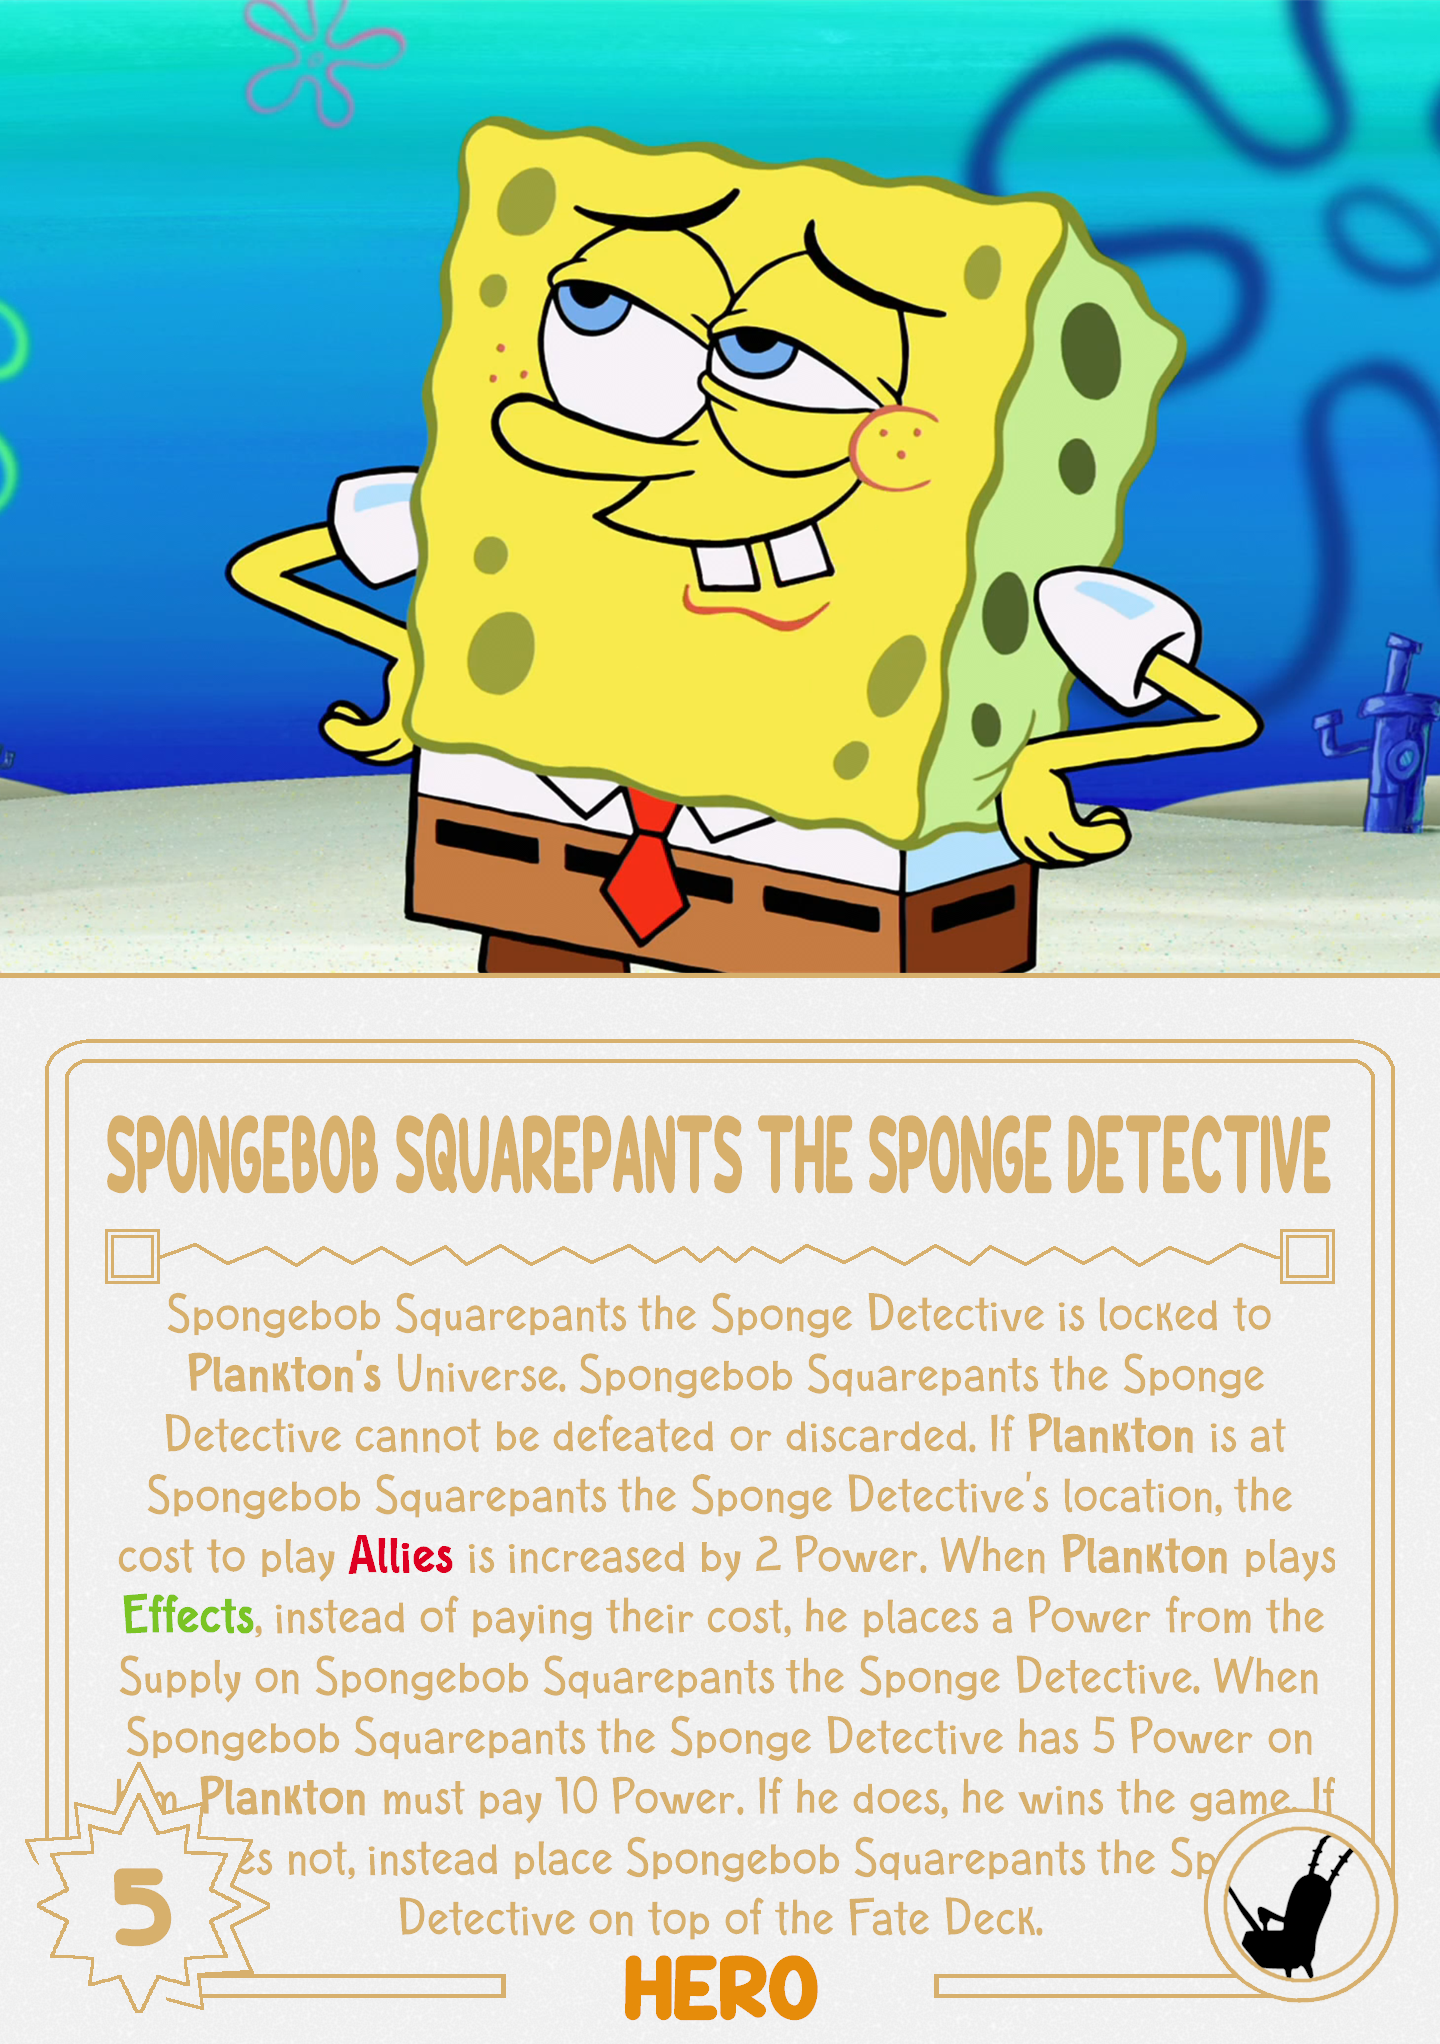
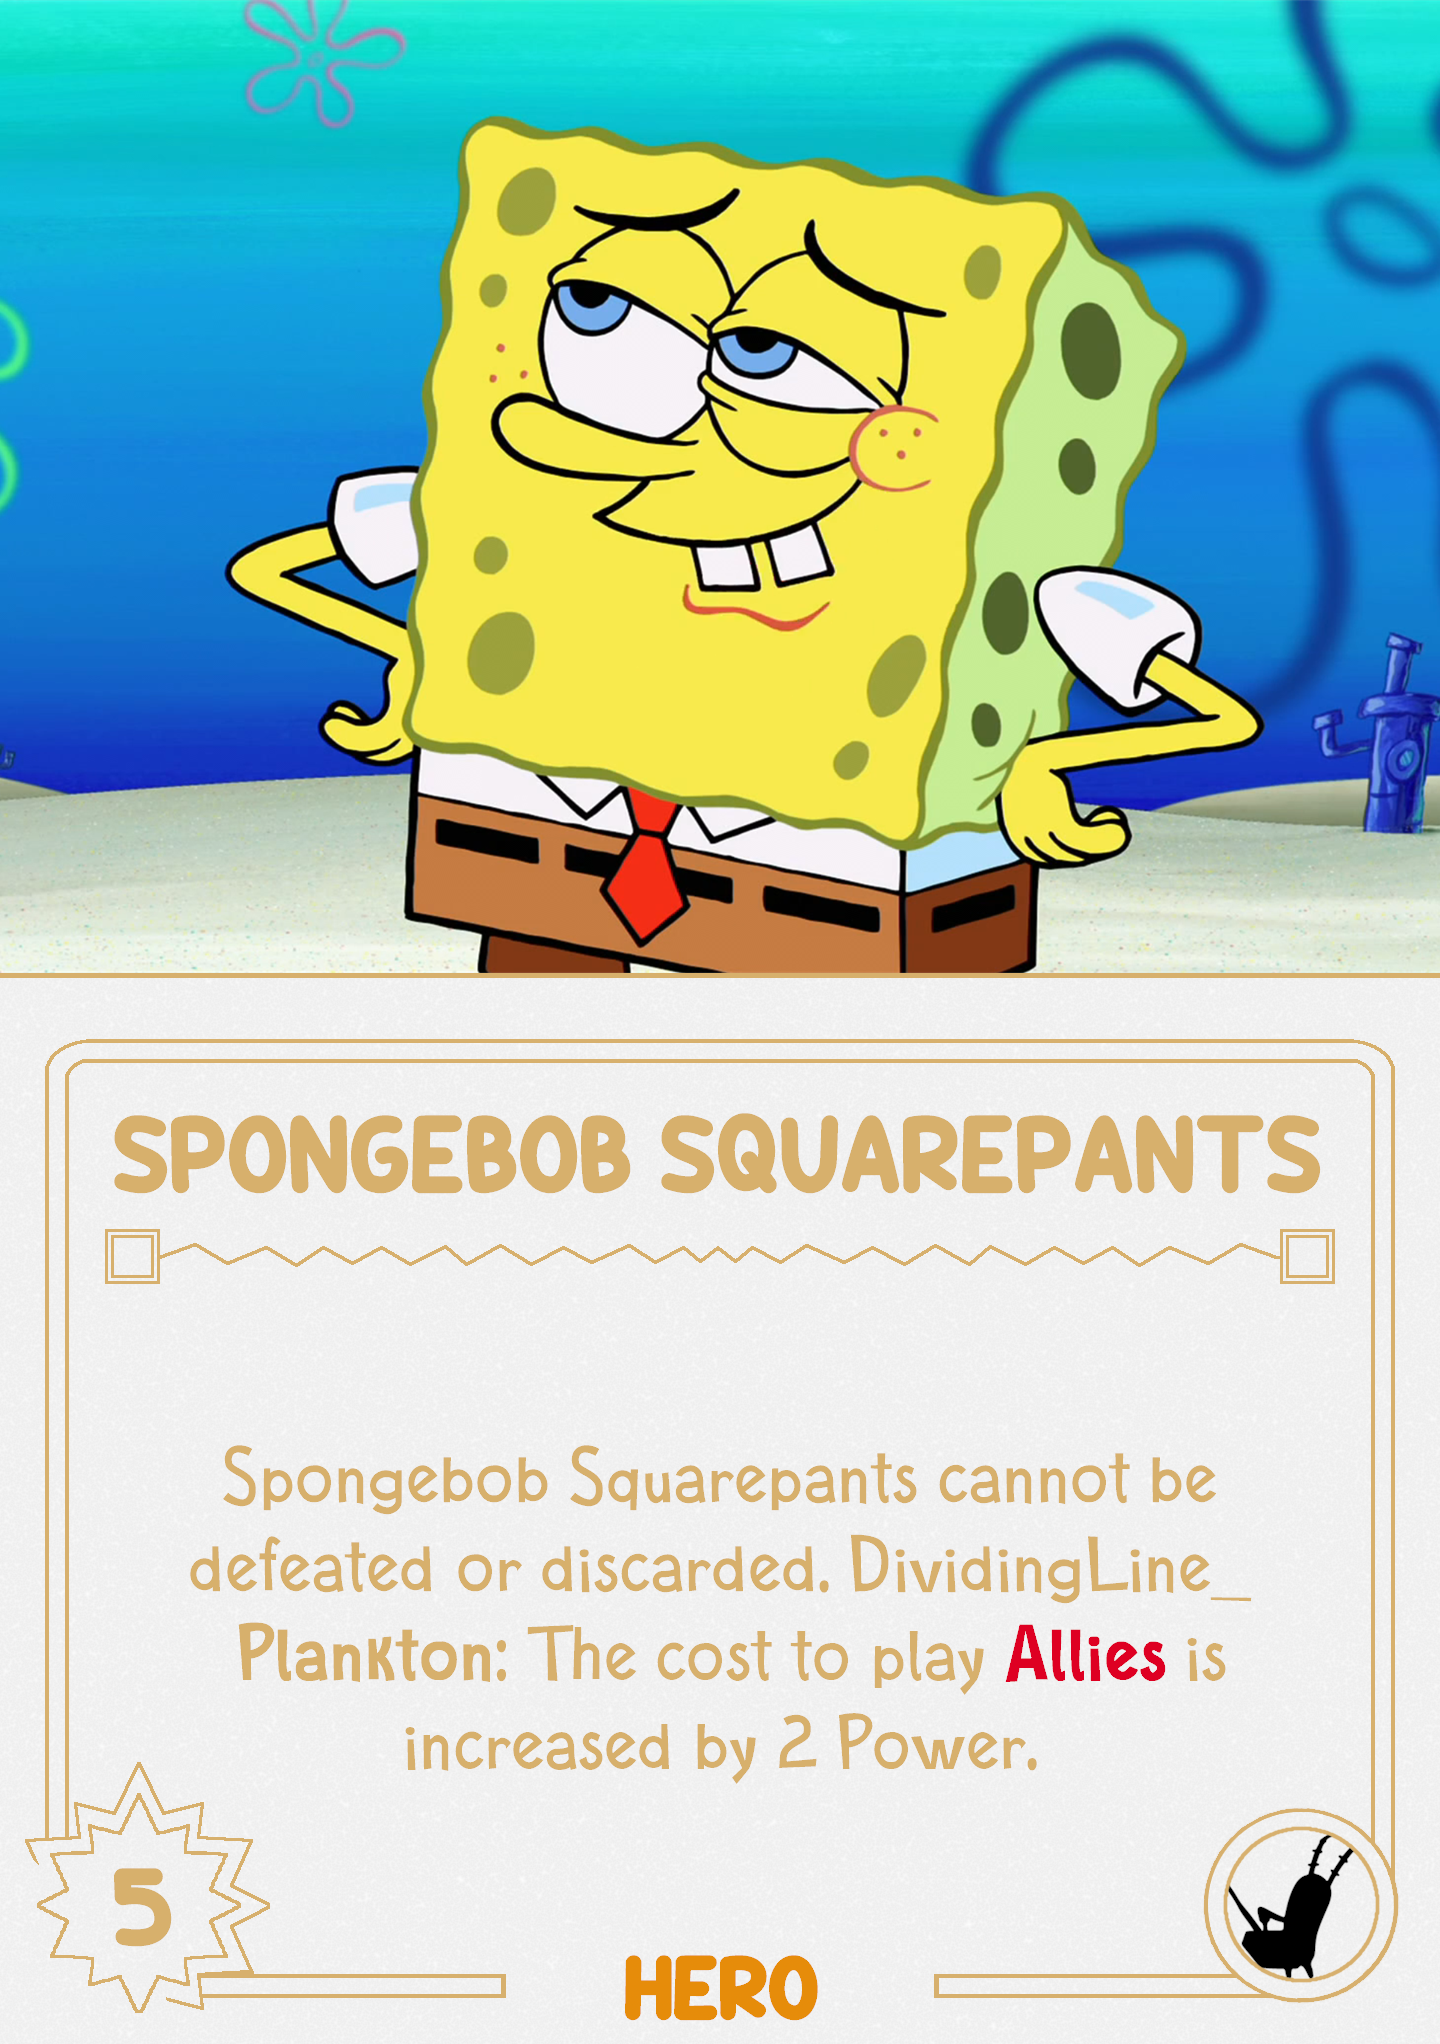
Removed some debugging. Added code to prevent incomplete cards from being generated.

Changed region(s): [[0.0625, 0.6164, 0.9375, 0.9555], [0.0625, 0.524, 0.9375, 0.5856]]

diff --git a/CardGeneration/PrepareText.cs b/CardGeneration/PrepareText.cs
@@ -66,7 +66,6 @@ namespace ToonVil_Card_Generator.CardGeneration
 						font = new Font(font.Name, currentFontSize, font.Style);
 					}
 				} while (textHeight > maxHeight);
-				Console.WriteLine($"Font size: {currentFontSize}");
 			}
 			else
 			{
@@ -161,93 +160,6 @@ namespace ToonVil_Card_Generator.CardGeneration
 				}
 				line++;
 			}
-
-			drawing.Save();
-
-			textBrush.Dispose();
-			drawing.Dispose();
-
-			// Ensure output directory exists and save per-element PNG
-			var relativeOutDir = Path.Combine("temp", "TextIntermediary");
-            var outDir = PathHelper.GetFullPath(relativeOutDir);
-			Directory.CreateDirectory(outDir);
-			var outpath = Path.Combine(outDir, $"{element}.png");
-			img.Save(outpath, ImageFormat.Png);
-			img.Dispose();
-		}
-
-		// summary
-		public static void DrawTextTest(String text, Font font, Color textColor, int maxWidth, int maxHeight, string element, Dictionary<string, string> keywordsAndColors)
-		{
-			// First, if it is a Title, capitalize the text
-			if (string.Equals(element.ToLower(), "title") || string.Equals(element.ToLower(), "type"))
-			{
-				text = text.ToUpper();
-			}
-
-			// Clean the text
-			text = GetCleanText(text);
-
-			// Set the stringformat flags and trimming
-			StringFormat sf = StringFormat.GenericTypographic;
-			sf.Trimming = StringTrimming.Word;
-			sf.Alignment = StringAlignment.Center;
-			sf.LineAlignment = StringAlignment.Center;
-
-			// Create a new image of the right size for our graphics
-			Image img = new Bitmap(maxWidth, maxHeight);
-			Graphics drawing = Graphics.FromImage(img);
-
-			// Use high quality everything
-			drawing.CompositingQuality = CompositingQuality.HighQuality;
-			drawing.InterpolationMode = InterpolationMode.HighQualityBilinear;
-			drawing.PixelOffsetMode = PixelOffsetMode.HighQuality;
-			drawing.SmoothingMode = SmoothingMode.HighQuality;
-			drawing.TextRenderingHint = TextRenderingHint.AntiAliasGridFit;
-			
-			// Paint a transparent background
-			drawing.Clear(Color.Transparent);
-
-			// Create a brush for the text
-			Brush textBrush = new SolidBrush(textColor);
-
-			// Find the proper font size or squish ratio for given text
-			int textHeight;
-			if (element != "Ability") textHeight = (int)Math.Ceiling(drawing.MeasureString(text, font, 100000, sf).Height);
-			else textHeight = (int)Math.Ceiling(drawing.MeasureString(text, font, maxWidth, sf).Height);
-			float granularity = 0.5F;
-			if (element == "Ability")
-			{
-				float currentFontSize = font.Size;
-				// Naively find maximum font size to fit text
-				do
-				{
-					SizeF currentSize = drawing.MeasureString(text, font, maxWidth, sf);
-					textHeight = (int)Math.Ceiling(currentSize.Height);
-					if (textHeight > maxHeight)
-					{
-						currentFontSize = font.Size - granularity;
-						font = new Font(font.Name, currentFontSize, font.Style);
-					}
-				} while (textHeight > maxHeight);
-				Console.WriteLine($"Font size: {currentFontSize}");
-			}
-			else
-			{
-				int textFullWidth = (int)drawing.MeasureString(text, font, 100000, sf).Width;
-				if (textFullWidth > maxWidth)
-				{
-					float horizontalSquish = (float)maxWidth / textFullWidth;
-					drawing.ScaleTransform(horizontalSquish, 1.0F);
-					maxWidth = (int)textFullWidth;
-				}
-			}
-
-			// Set up variables
-			int startY = (maxHeight - textHeight) / 2;
-
-			// Draw text
-			drawing.DrawString(text, font, textBrush, new RectangleF(0, startY, maxWidth, maxHeight), sf);
 
 			drawing.Save();
 

diff --git a/Program.cs b/Program.cs
@@ -35,6 +35,8 @@ class Program
         // Load all the keywords and their colors
         Dictionary<string, string> keywordsAndColors = KeywordHelper.GetColorMapping();
 
+        // Go through each line of Cards.txt and build cards
+
         // TEMPORARY
 
         // Setup
@@ -43,8 +45,8 @@ class Program
         CleanIntermediaries();
 
         // Spongebob Squarepants
-        DrawText("Spongebob Squarepants the Sponge Detective", titleFont, textColor, 1230, 166, "Title", keywordsAndColors);
-		DrawText("Spongebob Squarepants the Sponge Detective is locked to Plankton's Universe. Spongebob Squarepants the Sponge Detective cannot be defeated or discarded. If Plankton is at Spongebob Squarepants the Sponge Detective's location, the cost to play Allies is increased by 2 Power. When Plankton plays Effects, instead of paying their cost, he places a Power from the Supply on Spongebob Squarepants the Sponge Detective. When Spongebob Squarepants the Sponge Detective has 5 Power on him, Plankton must pay 10 Power. If he does, he wins the game. If he does not, instead place Spongebob Squarepants the Sponge Detective on top of the Fate Deck.", abilityFont, textColor, 1230, 668, "Ability", keywordsAndColors);
+        DrawText("Spongebob Squarepants", titleFont, textColor, 1230, 166, "Title", keywordsAndColors);
+		DrawText("Spongebob Squarepants cannot be defeated or discarded. DividingLine_ Plankton: The cost to play Allies is increased by 2 Power.", abilityFont, textColor, 1230, 668, "Ability", keywordsAndColors);
 		DrawText("5", strengthFont, textColor, 1230, 690, "Strength", keywordsAndColors);
         DrawText("Hero", typeFont, textColor, 1230, 690, "Type", keywordsAndColors);
 		SizeCardImage("Spongebob Squarepants");

diff --git a/CardGeneration/PrepareImage.cs b/CardGeneration/PrepareImage.cs
@@ -153,8 +153,11 @@ namespace ToonVil_Card_Generator.CardGeneration
 
 			// Only draw any elements if all of the necessary elements are present
 			// Necessary elements: Title, Ability, Type
-
-
+			if (!(File.Exists(titlePath) && File.Exists(abilityPath) && File.Exists(typePath)))
+			{
+				Console.WriteLine($"Missing elements for {cardTitle}!");
+				return;
+			}
 
 			string capitalizedDeck = MiscHelper.Capitalize(deck);
 			// Card image
